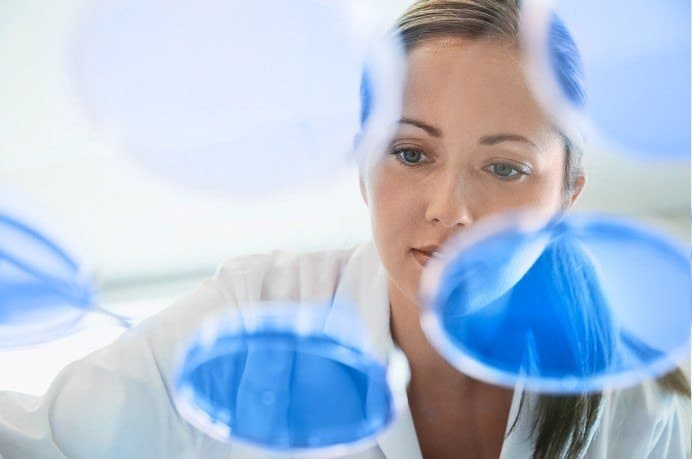
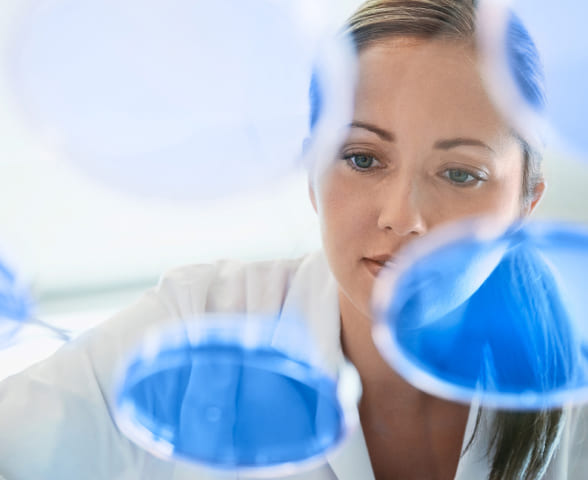
img fix

diff --git a/css/style.css b/css/style.css
@@ -325,7 +325,7 @@ body {
   width: 356px;
   height: 178px;
   background-repeat: no-repeat;
-  background-size: 100%;
+  background-size: cover;
   background-position: center;
 }
 
@@ -393,8 +393,8 @@ body {
 }
 
 .advantages__list-item.active .advantages__list-item-text {
-  max-height: 188px;
-  height: 188px;
+  max-height: 196px;
+  height: 196px;
   opacity: 1;
 }
 
@@ -651,7 +651,6 @@ body {
 
   .promo__container {
     width: 930px;
-    background-size: 122% 103%;
     padding: 0 40px 180px 40px;
   }
 
@@ -744,7 +743,6 @@ body {
   .advantages__list-item-img-block {
     width: 260px;
     height: 178px;
-    background-size: 100% 100%;
   }
 
   .advantages__list-item-text-block {
@@ -814,7 +812,6 @@ body {
 @media (max-width: 1019px) {
   .promo__container {
     width: 610px;
-    background-size: 100% 105%;
     padding-bottom: 94px;
   }
 
@@ -1053,10 +1050,6 @@ body {
     line-height: 22px;
   }
 
-  .advantages__list-item-img-block {
-    background-size: 130% 100%;
-  }
-
   .advantages__list-item-text-block {
     max-height: 106px;
     max-width: 260px;
@@ -1093,7 +1086,7 @@ body {
 
   .figures__list-mob .figures__list-item-employees {
     background-image: url("../images/employees.jpg");
-    background-position: center;
+    background-position: 32% 10%;
     background-repeat: no-repeat;
     background-size: cover;
   }
@@ -1171,7 +1164,6 @@ body {
   .promo__container {
     min-width: 300px;
     width: 100%;
-    background-size: cover;
     padding: 0 33px 148px 34px;
   }
 
@@ -1288,11 +1280,6 @@ body {
 
   .figures__text {
     margin-bottom: 8px;
-  }
-
-  .figures__list-mob .figures__list-item-employees {
-    background-position: 32% 10%;
-    background-size: 138% 100%;
   }
 
   .figures__decor-img:nth-of-type(1) {

diff --git a/js/main.js b/js/main.js
@@ -109,7 +109,7 @@ $(document).ready(function () {
   }
 
   function handleSlick(selector, settings) {
-    var windowWidth = $(window).width();
+    const windowWidth = $(window).width();
     if (windowWidth <= 1019) {
       initializeSlick(selector, settings);
     } else {
@@ -117,7 +117,7 @@ $(document).ready(function () {
     }
   }
 
-  var commonSettings = {
+  const commonSettings = {
     dots: true,
     infinite: true,
     speed: 300,
